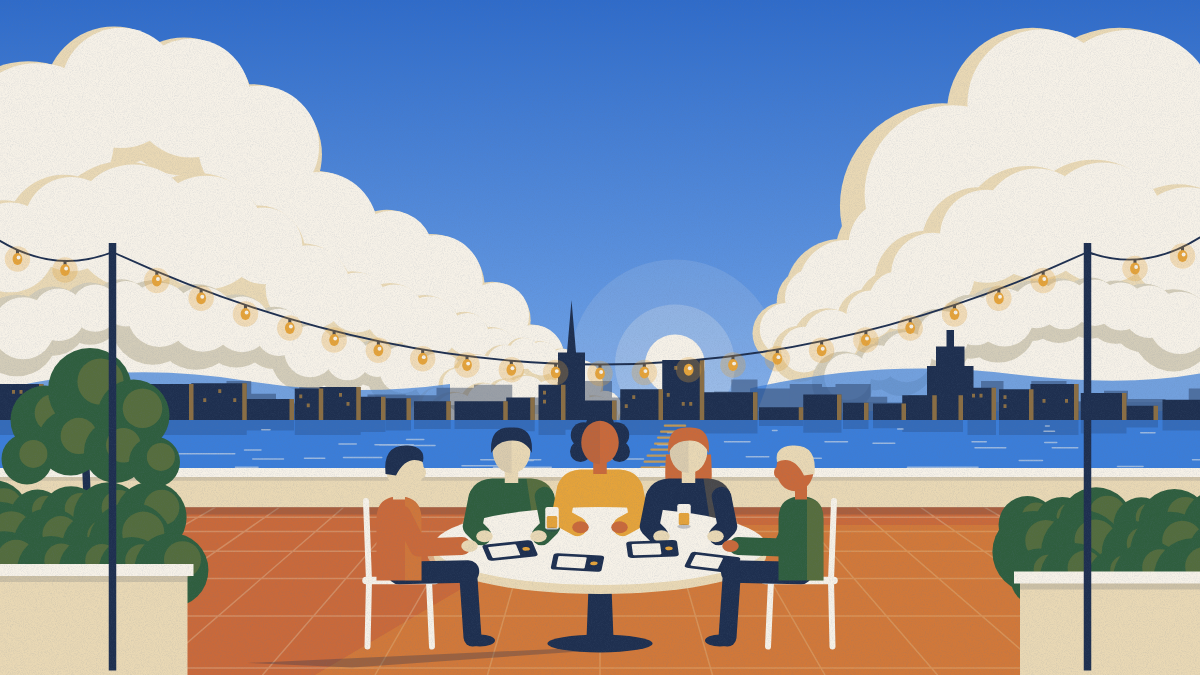
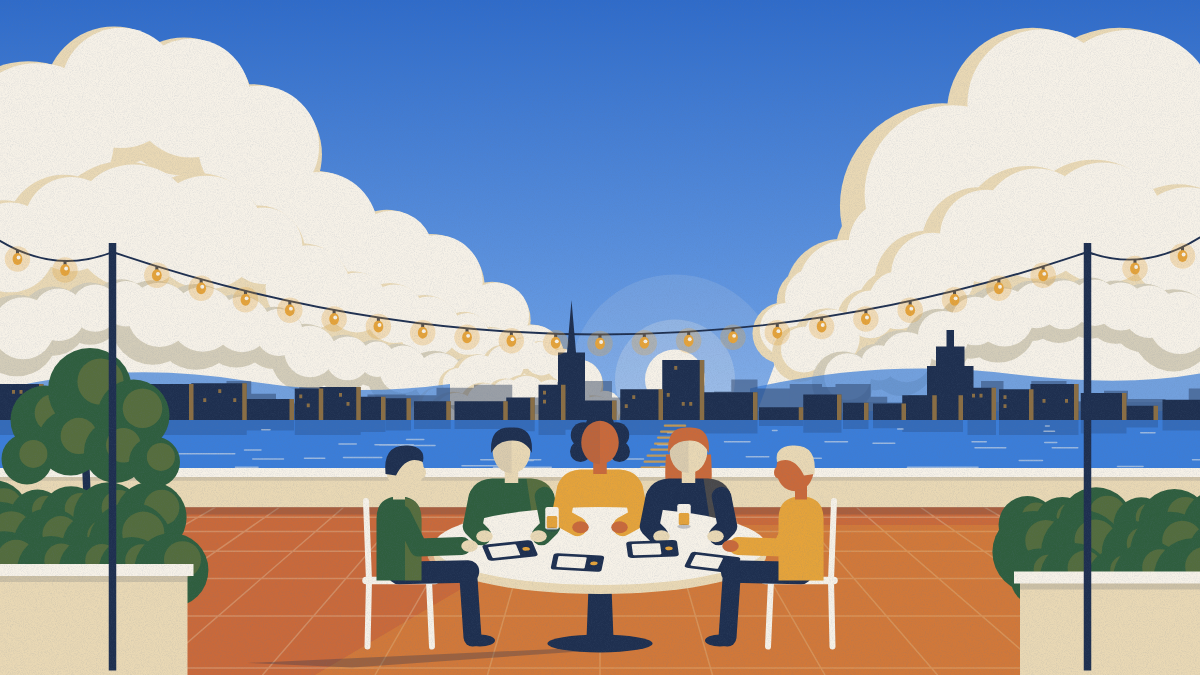
The left seated person wears green so they stand out from the terracotta floor, the mark over the poster is drawn in the headline's white, and the sun sits low behind the skyline below the string of lights

Changed region(s): [[0.0925, 0.3733, 0.8942, 0.5911], [0.6167, 0.7156, 0.7092, 0.8711], [0.3083, 0.7156, 0.4008, 0.8711]]

diff --git a/site/style.css b/site/style.css
@@ -69,7 +69,8 @@ code { font-family: var(--mono); font-size: 0.9em; }
 .poster-title { position: absolute; left: 0; right: 0; top: 11%; padding: 0 var(--gutter); text-align: center; color: var(--on-sky); }
 .hero h1 { font-family: var(--serif); font-optical-sizing: auto; font-weight: 600; font-size: clamp(46px, 7.4vw, 116px); letter-spacing: -0.02em; line-height: 1; margin: 0; text-shadow: 0 2px 28px color-mix(in srgb, var(--sky-ink) 30%, transparent); }
 .poster-brand { display: inline-flex; align-items: center; gap: 10px; margin: clamp(14px, 2.2vw, 26px) 0 0; font-family: var(--display); font-weight: 600; font-size: clamp(17px, 1.6vw, 22px); letter-spacing: -0.01em; }
-.poster-brand img { width: clamp(24px, 2.2vw, 30px); height: auto; border-radius: 6px; }
+/* The mark in the headline's white: the rings of assets/mark.svg without its dark tile. */
+.poster-brand svg { width: clamp(24px, 2.2vw, 30px); height: auto; }
 .hero-copy { position: relative; padding-top: clamp(32px, 5vh, 52px); }
 .hero .eyebrow { margin-bottom: 14px; }
 .lede { font-size: clamp(16px, 1.4vw, 19px); color: var(--fg-2); max-width: 880px; margin: 0 0 24px; }

diff --git a/site/index.html b/site/index.html
@@ -46,7 +46,7 @@
     <img src="assets/place.svg" width="1600" height="900" alt="A rooftop at golden hour: five people at a round table, their cards on it, the city behind" fetchpriority="high">
     <div class="poster-title">
       <h1 id="hero-title">Get in cahoots.</h1>
-      <p class="poster-brand"><img src="assets/mark.svg" alt="" width="30" height="30"><span>Cahoots</span></p>
+      <p class="poster-brand"><svg viewBox="0 0 64 64" width="30" height="30" aria-hidden="true" fill="none" stroke="currentColor" stroke-width="4"><circle cx="32" cy="32" r="26"/><circle cx="32" cy="32" r="15"/><circle cx="32" cy="32" r="5" fill="currentColor" stroke="none"/></svg><span>Cahoots</span></p>
     </div>
   </div>
   <div class="wrap hero-copy">

diff --git a/site/og/og.css b/site/og/og.css
@@ -19,6 +19,6 @@ body.scene .card { padding: 58px 72px 0; justify-content: flex-start; align-item
 body.scene h1 { font-family: "Fraunces", Georgia, serif; font-weight: 600; font-size: 104px; line-height: 1; letter-spacing: -0.02em; margin: 0; max-width: none; color: var(--on-sky); text-shadow: 0 2px 28px rgba(30, 47, 79, 0.3); }
 body.scene h1.sm { font-size: 74px; line-height: 1.02; }
 body.scene .brand { color: var(--on-sky); font-size: 28px; }
-body.scene .brand img { border-radius: 7px; }
+body.scene .brand svg { width: 34px; height: 34px; }
 body.scene .brand .sub { color: var(--on-sky); opacity: 0.85; }
 body.scene .brand .sub::before { color: rgba(255, 255, 255, 0.6); }

diff --git a/site/og/app.html b/site/og/app.html
@@ -3,6 +3,6 @@
 <link rel="stylesheet" href="og.css"></head><body class="scene">
 <div class="card">
   <h1 class="sm">Try it in<br>your browser.</h1>
-  <div class="brand"><img src="../assets/mark.svg" alt="">Cahoots<span class="sub">App</span></div>
+  <div class="brand"><svg viewBox="0 0 64 64" width="34" height="34" aria-hidden="true" fill="none" stroke="currentColor" stroke-width="4"><circle cx="32" cy="32" r="26"/><circle cx="32" cy="32" r="15"/><circle cx="32" cy="32" r="5" fill="currentColor" stroke="none"/></svg>Cahoots<span class="sub">App</span></div>
 </div>
 </body></html>

diff --git a/site/og/docs.html b/site/og/docs.html
@@ -3,6 +3,6 @@
 <link rel="stylesheet" href="og.css"></head><body class="scene">
 <div class="card">
   <h1>How it works.</h1>
-  <div class="brand"><img src="../assets/mark.svg" alt="">Cahoots<span class="sub">Docs</span></div>
+  <div class="brand"><svg viewBox="0 0 64 64" width="34" height="34" aria-hidden="true" fill="none" stroke="currentColor" stroke-width="4"><circle cx="32" cy="32" r="26"/><circle cx="32" cy="32" r="15"/><circle cx="32" cy="32" r="5" fill="currentColor" stroke="none"/></svg>Cahoots<span class="sub">Docs</span></div>
 </div>
 </body></html>

diff --git a/site/og/home.html b/site/og/home.html
@@ -3,6 +3,6 @@
 <link rel="stylesheet" href="og.css"></head><body class="scene">
 <div class="card">
   <h1>Get in cahoots.</h1>
-  <div class="brand"><img src="../assets/mark.svg" alt="">Cahoots</div>
+  <div class="brand"><svg viewBox="0 0 64 64" width="34" height="34" aria-hidden="true" fill="none" stroke="currentColor" stroke-width="4"><circle cx="32" cy="32" r="26"/><circle cx="32" cy="32" r="15"/><circle cx="32" cy="32" r="5" fill="currentColor" stroke="none"/></svg>Cahoots</div>
 </div>
 </body></html>

diff --git a/site/art/gen.py b/site/art/gen.py
@@ -219,9 +219,9 @@ def sky(rng):
         f'<rect width="{POSTER_W}" height="{PARAPET + 10}" fill="url(#sky)"/>',
     ]
     # The low sun behind the right-hand cloud, and its glow on the haze.
-    out.append(circle(900, 486, 140, P_CLOUD, op(0.12)))
-    out.append(circle(900, 486, 80, P_CLOUD, op(0.22)))
-    out.append(circle(900, 486, 40, P_CLOUD))
+    out.append(circle(900, 506, 140, P_CLOUD, op(0.12)))
+    out.append(circle(900, 506, 80, P_CLOUD, op(0.22)))
+    out.append(circle(900, 506, 40, P_CLOUD))
     out.append('<g clip-path="url(#above)">')
     # The left tower.
     out += cumulus(rng, [(-120, 300), (-40, 150), (60, 70), (170, 34), (280, 64), (370, 150), (420, 236),
@@ -458,7 +458,7 @@ def lights():
     poles = [(150, 330), (1450, 330)]
     for px, py in poles:
         out.append(f'<rect x="{px - 5}" y="{py - 6}" width="10" height="{POSTER_H - py}" fill="{P_NAVY}"/>')
-    strands = [((150, 336), (1450, 336), 150), ((150, 336), (-40, 292), 30), ((1450, 336), (1640, 286), 30)]
+    strands = [((150, 336), (1450, 336), 110), ((150, 336), (-40, 292), 30), ((1450, 336), (1640, 286), 30)]
     for (x0, y0), (x1, y1), sag in strands:
         cx, cy = (x0 + x1) / 2, (y0 + y1) / 2 + sag * 2
         out.append(f'<path d="M{x0} {y0}Q{n(cx)} {n(cy)} {x1} {y1}" fill="none" stroke="{P_NAVY}" stroke-width="2.5"/>')
@@ -502,8 +502,8 @@ def poster():
         out += arms_back(x, y, jacket, skin, reach)
     out += table_things()
     # Two at the sides.
-    out += person_side(cx - 268, 662, 1, P_TERRA, P_CREAM, P_NAVY, "bun", P_CLOUD)
-    out += person_side(cx + 268, 662, -1, P_GREEN, P_TERRA, P_CREAM, "short", P_CLOUD)
+    out += person_side(cx - 268, 662, 1, P_GREEN, P_CREAM, P_NAVY, "bun", P_CLOUD)
+    out += person_side(cx + 268, 662, -1, P_AMBER, P_TERRA, P_CREAM, "short", P_CLOUD)
     out += planter(-20, 250, 760, rng, (120, 520))
     out += planter(1360, 1640, 770, rng, None)
     out += lights()
